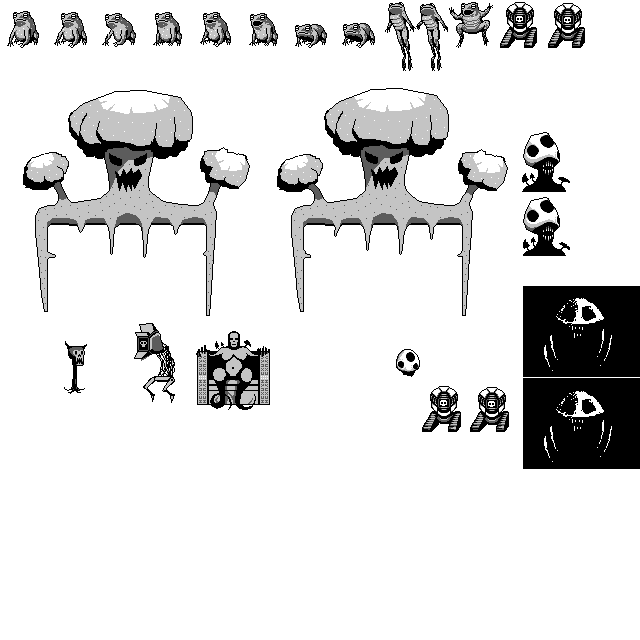
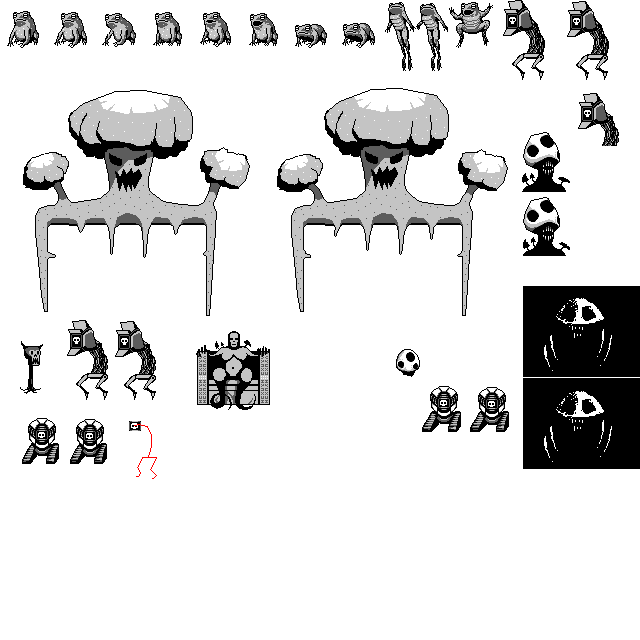
new robo sprite

diff --git a/src/world/entities.py b/src/world/entities.py
@@ -334,9 +334,6 @@ class AnimationEntity(Entity):
             self.fric = self.fric if fric is None else fric
             self.collides = self.collides if collides is None else collides
 
-        def get_depth(self):
-            return super().get_depth() - 32  # gotta win~
-
         def set_finish_behavior(self, mode):
             self.on_finish_mode = mode
 
@@ -498,6 +495,10 @@ class FloatingTextEntity(Entity):
 
     def _build_text_img(self):
         return TextImage(0, 0, self.text, spriteref.ENTITY_LAYER, color=self.color, scale=self.scale)
+
+    def get_depth(self):
+        # should still use depth to sort among other text imgs
+        return -1000000 + super().get_depth()
 
     def update_images(self):
         if self._text_img is None:

diff --git a/src/game/spriteref.py b/src/game/spriteref.py
@@ -730,7 +730,7 @@ def build_boss_sheet(start_pos, raw_boss_img, sheet):
     sheet.blit(raw_boss_img, start_pos)
     Bosses.cave_horror_idle = [make(i * 256, 80, 256, 240, shift=start_pos) for i in range(0, 2)]
 
-    Bosses.robo_idle = [make(496 + i * 48, 0, 48, 48, shift=start_pos) for i in range(0, 2)]
+    Bosses.robo_idle = [make(496 + i * 64, 0, 64, 80, shift=start_pos) for i in range(0, 2)]
 
     Bosses.frog_idle_1 = [make(0 + 48*i, 0, 48, 48, shift=start_pos) for i in range(0, 2)]
     Bosses.frog_idle_2 = [make(96 + 48*i, 0, 48, 48, shift=start_pos) for i in range(0, 2)]

diff --git a/src/game/enemies.py b/src/game/enemies.py
@@ -563,12 +563,6 @@ class RoboTemplate(EnemyTemplate):
     def get_shadow_sprite(self):
         return spriteref.enormous_shadow
 
-    def get_shadow_offset(self):
-        return (0, -8)
-
-    def get_sprite_offset(self):
-        return (0, 6)
-
     def get_level_range(self):
         return [11]
 
